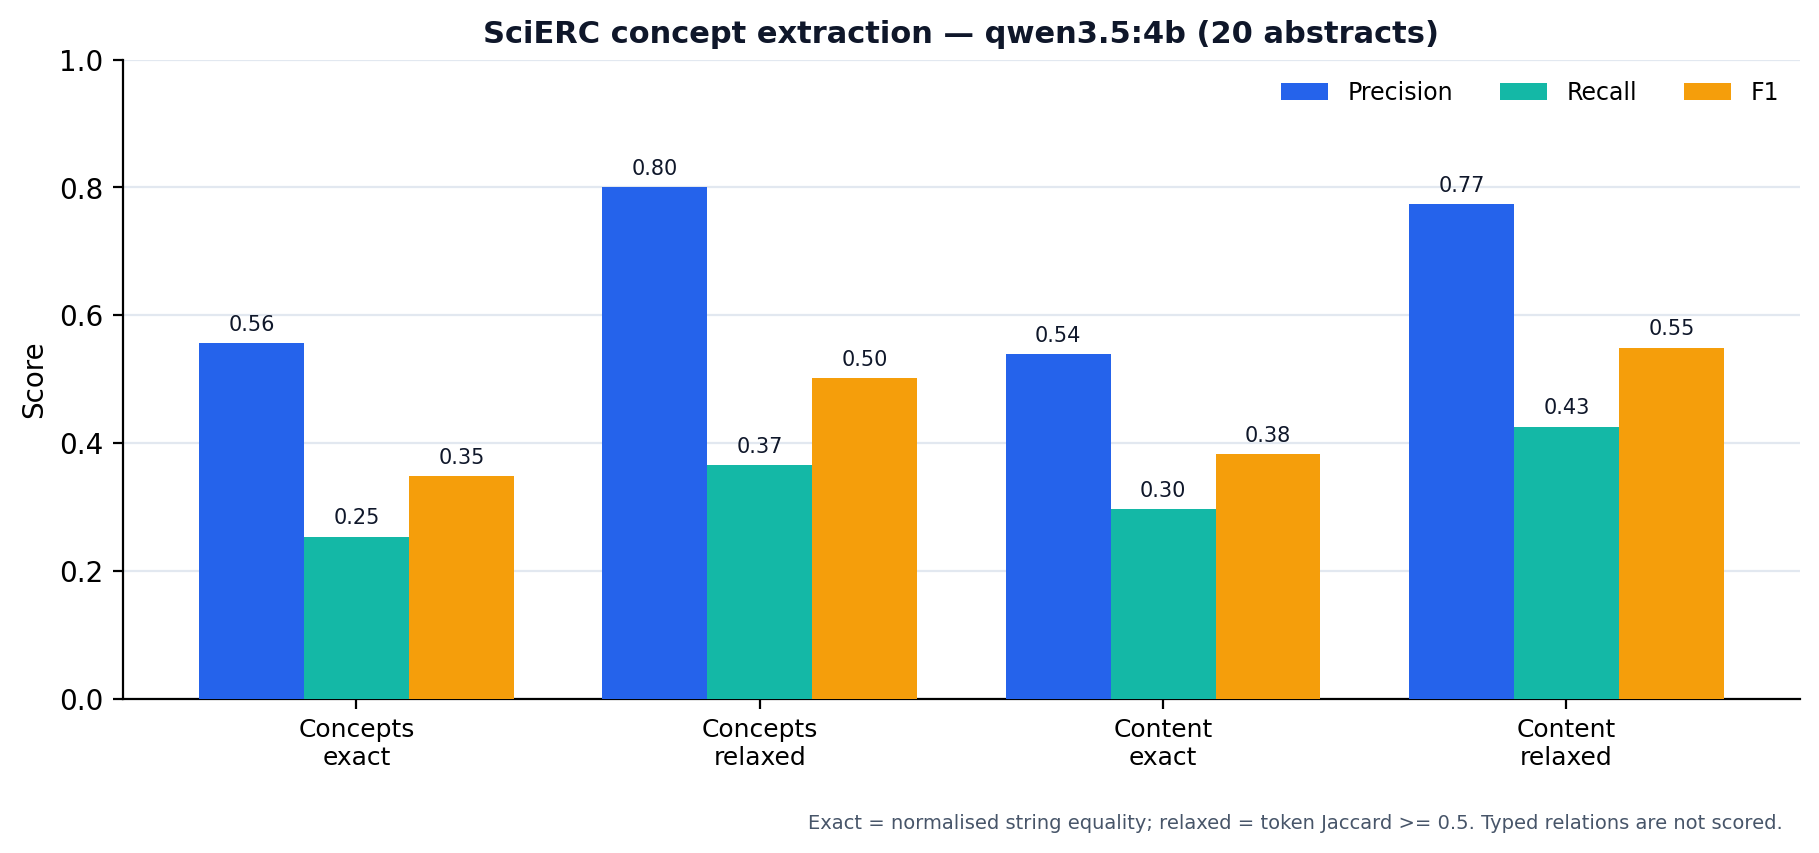
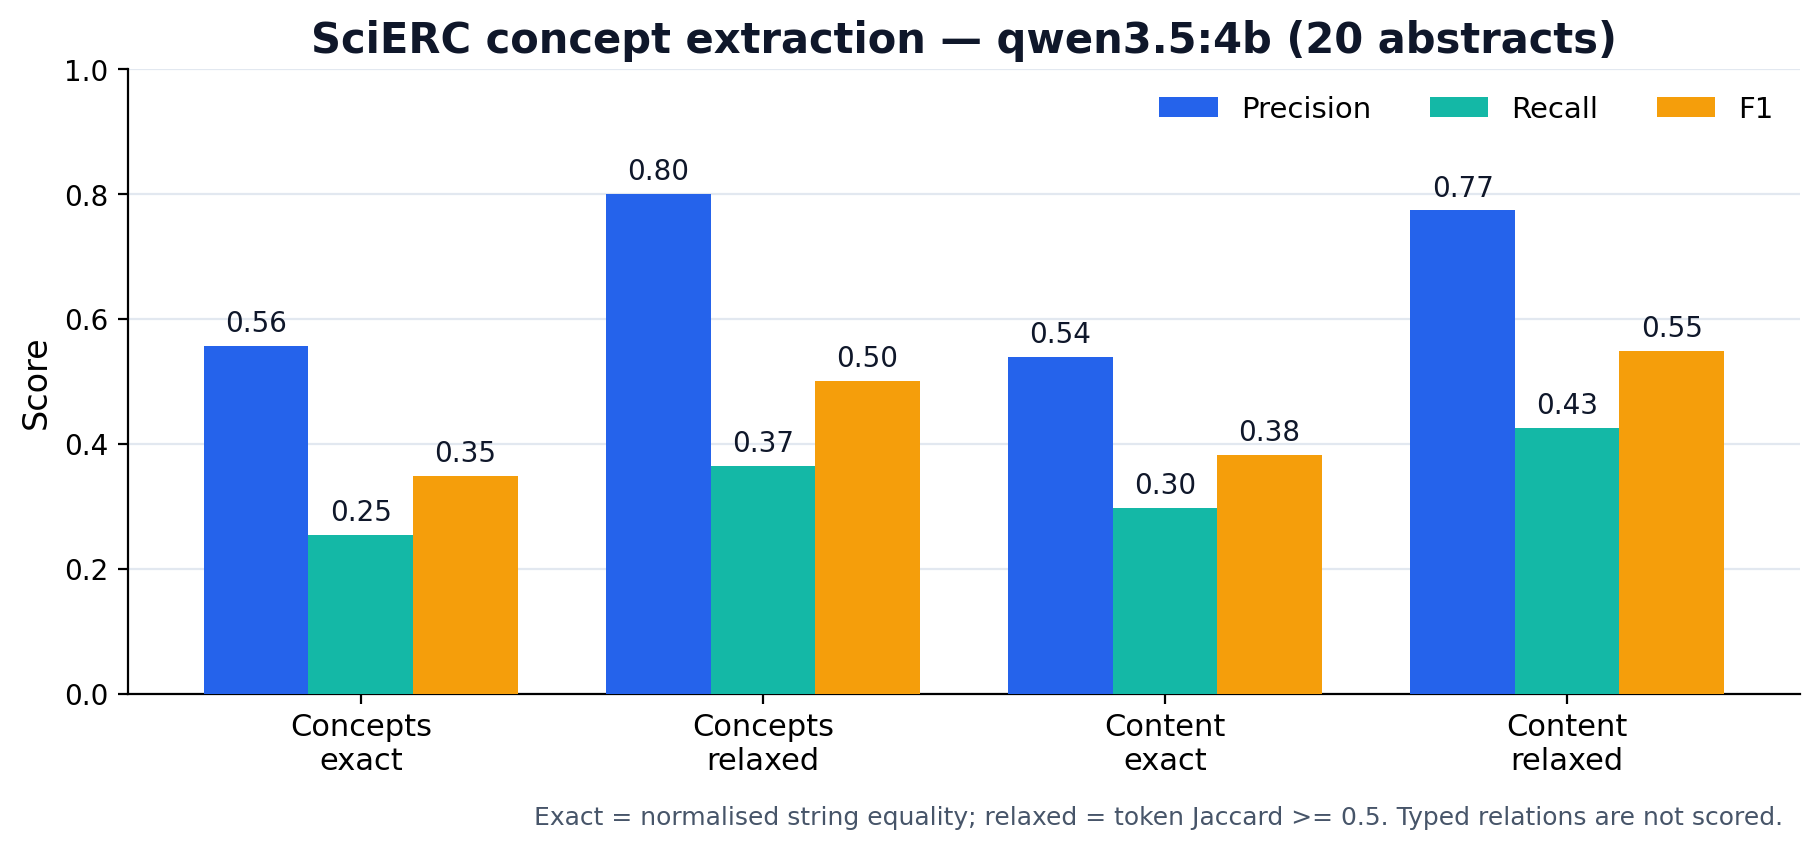
docs(charts): enlarge benchmark chart labels

diff --git a/benchmarks/plot_results.py b/benchmarks/plot_results.py
@@ -61,18 +61,18 @@ def render(results: Dict, output: Path) -> Path:
                 textcoords="offset points",
                 ha="center",
                 va="bottom",
-                fontsize=7.5,
+                fontsize=10,
                 color="#0f172a",
             )
 
     ax.set_xticks(list(x))
-    ax.set_xticklabels(labels, fontsize=9)
+    ax.set_xticklabels(labels, fontsize=11)
     ax.set_ylim(0, 1.0)
-    ax.set_ylabel("Score", fontsize=10)
+    ax.set_ylabel("Score", fontsize=12)
     ax.set_title(
         f"SciERC concept extraction — {results.get('model', 'unknown model')}"
         f" ({results.get('papers', '?')} abstracts)",
-        fontsize=11,
+        fontsize=15,
         fontweight="bold",
         color="#0f172a",
     )
@@ -80,7 +80,7 @@ def render(results: Dict, output: Path) -> Path:
     ax.set_axisbelow(True)
     for spine in ("top", "right"):
         ax.spines[spine].set_visible(False)
-    ax.legend(frameon=False, ncols=3, loc="upper right", fontsize=8.5)
+    ax.legend(frameon=False, ncols=3, loc="upper right", fontsize=10.5)
     ax.text(
         0.99,
         -0.18,
@@ -89,7 +89,7 @@ def render(results: Dict, output: Path) -> Path:
         transform=ax.transAxes,
         ha="right",
         va="top",
-        fontsize=7,
+        fontsize=9,
         color="#475569",
     )
     fig.tight_layout()
